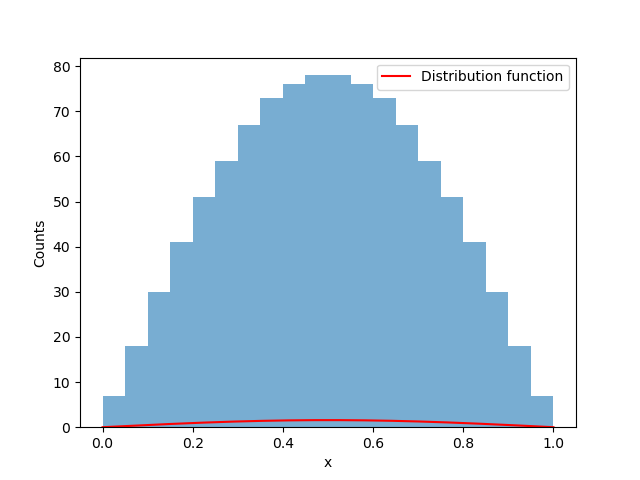
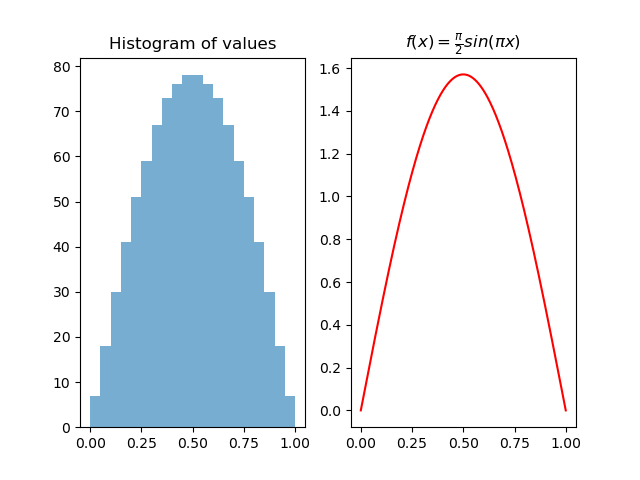
plots different

diff --git a/homework2/sin_numbers.py b/homework2/sin_numbers.py
@@ -24,14 +24,17 @@ def transformation(rarr):
 
 
 def histogram(xarr,nbins=20):
-    plt.figure()
+    ''' Plots a histogram of x values on above image, 
+    and the distribution function f(x) on below image.
+    '''
 
-    plt.hist(xarr,bins=nbins,alpha=0.6)
-    plt.plot(xarr,f(xarr),'r',label="Distribution function")
+    fig,(ax1,ax2) = plt.subplots(nrows=1,ncols=2)
 
-    plt.xlabel("x")
-    plt.ylabel("Counts")
-    plt.legend()
+    ax1.hist(xarr,bins=nbins,alpha=0.6)
+    ax1.set_title("Histogram of values")
+    ax2.plot(xarr,f(xarr),'r',label="Distribution function")
+    ax2.set_title(r"$f(x) = \frac{\pi}{2} sin(\pi x)$")
+
     plt.show()
     plt.savefig("sin_hist.png")
     plt.close
